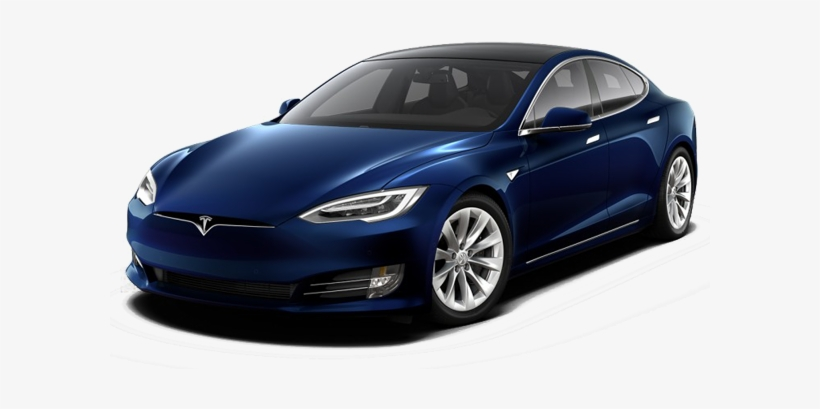
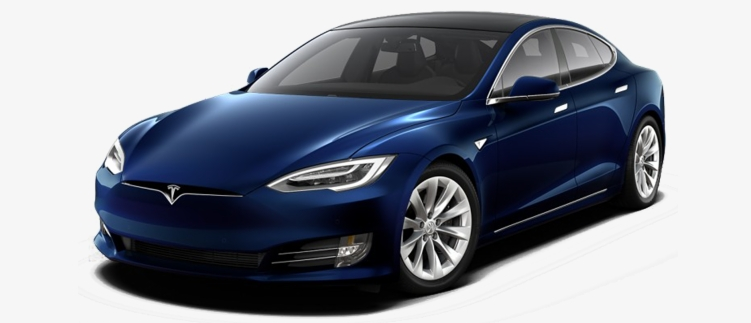
control page init

diff --git a/lib/teslaControlHome.dart b/lib/teslaControlHome.dart
@@ -16,20 +16,21 @@ class _TeslaControlHomeState extends State<TeslaControlHome> {
     var ss = MediaQuery.of(context).size;
     return Scaffold(
       body: Container(
+        height: ss.height,
         decoration: BoxDecoration(
             gradient: LinearGradient(
               begin: Alignment.topCenter,
                 end: Alignment.bottomCenter,
                 colors: [Colors.grey[800]!, Colors.black38])),
         child: Column(
-          mainAxisAlignment: MainAxisAlignment.center,
+          // mainAxisAlignment: MainAxisAlignment.center,
           children: <Widget>[
-            Container(height: ss.width*.05,),
+            // Container(height: ss.width*.05,),
             Row(
                 mainAxisAlignment: MainAxisAlignment.end,
                 children:[
                   Padding(
-                      padding: EdgeInsets.all(ss.width * .02),
+                      padding: EdgeInsets.only(top:ss.width * .05, right:ss.width*.02),
                       child:
                   Container(
                     width: ss.width * .10,
@@ -57,61 +58,33 @@ class _TeslaControlHomeState extends State<TeslaControlHome> {
                         style: TextStyle(fontSize: ss.width * .1,
                                           fontWeight: FontWeight.w600) ,
               )],),
-
-            Expanded(child:Stack(children:[
-              Positioned(
-                  bottom: ss.width * .15,
-                  child: Image.asset(
-                      "assets/images/tesla_90_graphic_trans.png",
-                      width:ss.width,
-                    fit:BoxFit.contain
-                  )),
-                Positioned(
-                    top: ss.width * .01,
-              child:Row(
-                children: [
-                  Container(width: ss.width * .25,),
-                  Container(width: ss.width * .5,
-                      child:Text(driven_distance,
-                          style:TextStyle(
-                            fontSize: ss.width * .3,
-                            fontWeight:FontWeight.w100,)
-                      )),
-                  Container(width: ss.width * .25,
-                      child: Text("km")
-                  ),
-                ],)),
-
-            ])),
-
-            Column(
-                mainAxisAlignment: MainAxisAlignment.end,
-                children:[
+            Row(
+              children: [
+                Container(width: ss.width * .25,),
+                Container(width: ss.width * .5,
+                    child:Text(driven_distance,
+                        style:TextStyle(
+                          fontSize: ss.width * .3,
+                          fontWeight:FontWeight.w100,)
+                    )),
+                Container(width: ss.width * .25,
+                    child: Text("km")
+                ),
+              ],),
+            Container(
+            child:Image.asset(
+                "assets/images/tesla_90_graphic.png",
+                width:ss.width,
+                fit:BoxFit.contain
+            )),
+            Container(height: ss.width*.05,),
             Row(
               mainAxisAlignment: MainAxisAlignment.center,
               children: [Text("A/C is turned " + ac_on_off)],),
-                  Container(height: ss.width*.01,),
+                  Container(height: ss.width*.05,),
             Row(
               mainAxisAlignment: MainAxisAlignment.center,
               children: [
-
-                // Container(
-                //   width: ss.width * .12,
-                //   child:
-                  // RawMaterialButton(
-                  //   onPressed: () {
-                  //   },
-                  //   splashColor: Colors.tealAccent,
-                  //   elevation: 20.0,
-                  //   fillColor: Colors.lightBlue,
-                  //   child: Icon(Icons.lock_outline,
-                  //     color: Colors.white,
-                  //     size: ss.width * .04,
-                  //   ),
-                  //   padding: EdgeInsets.all(8.0),
-                  //   shape: CircleBorder(),
-                  // )
-
                   Container(
                     width: ss.width * .12,
                     height: ss.width * .12,
@@ -131,21 +104,24 @@ class _TeslaControlHomeState extends State<TeslaControlHome> {
                             color: Colors.white,
                             size: ss.width * .04,
                           ),
-                      onPressed: () {},
+                      onPressed: () {
+
+                        Navigator.of(context).push()
+                      },
                     ),
                   // )
 
               )],),
-                  Container(height: ss.width*.01,),
+                  Container(height: ss.width*.03,),
             Row(
               mainAxisAlignment: MainAxisAlignment.center,
               children: [Text("Tap to open the car" )],),
 
                   Container(height: ss.width*.05,)
 
-          ]),
+      ]),
 
-                ]),)
+          )
     );
   }
 }

diff --git a/lib/controlPage.dart b/lib/controlPage.dart
@@ -1,0 +1,73 @@
+import 'package:flutter/material.dart';
+
+
+class ControlPage extends StatefulWidget {
+  const ControlPage({Key? key}) : super(key: key);
+
+  @override
+  _ControlPageState createState() => _ControlPageState();
+}
+
+class _ControlPageState extends State<ControlPage> {
+  @override
+  Widget build(BuildContext context) {
+    var ss = MediaQuery.of(context).size;
+    return Container(
+      height: ss.height,
+      child:Column(children: [
+        Row(children: [
+          Container(width:ss.width * .15 child:
+      RawMaterialButton(
+      onPressed: () {
+    },
+      splashColor: Colors.tealAccent,
+      elevation: 2.0,
+      fillColor: Colors.grey[900],
+      child: Icon(Icons.person_outline,
+          color: Theme.of(context).textTheme.titleMedium!.color,
+          size: ss.width *.04
+      ),
+      padding: EdgeInsets.all(ss.width*.02),
+      shape: CircleBorder(),
+    )
+          ),
+          Container(width: ss.width * .7,child:Column(
+            children: [Text("Tesla"),
+                      Text("Model S")
+            ],
+          )),
+          Container(width: ss.width * .15,child:
+    RawMaterialButton(
+    onPressed: () {
+    },
+    splashColor: Colors.tealAccent,
+    elevation: 2.0,
+    fillColor: Colors.grey[900],
+    child: Icon(Icons.settings_outlined,
+    color: Theme.of(context).textTheme.titleMedium!.color,
+    size: ss.width *.04
+    ),
+    padding: EdgeInsets.all(ss.width*.02),
+    shape: CircleBorder(),
+    )
+    )
+        ],),
+
+    Image.asset("/assets/images/tesla_45_graphic.png"),
+
+    Padding(padding: EdgeInsets.only(left:ss.width * .03),
+    child:Column(children: [
+      Row(children: [Text("Status")],),
+
+    Row(children: [Container(width:ss.width * .3),
+                  Container(width:ss.width * .3),
+                  Container(width:ss.width * .3)
+    ],)
+    ],)
+    )
+
+
+      ],)
+    );
+  }
+}
